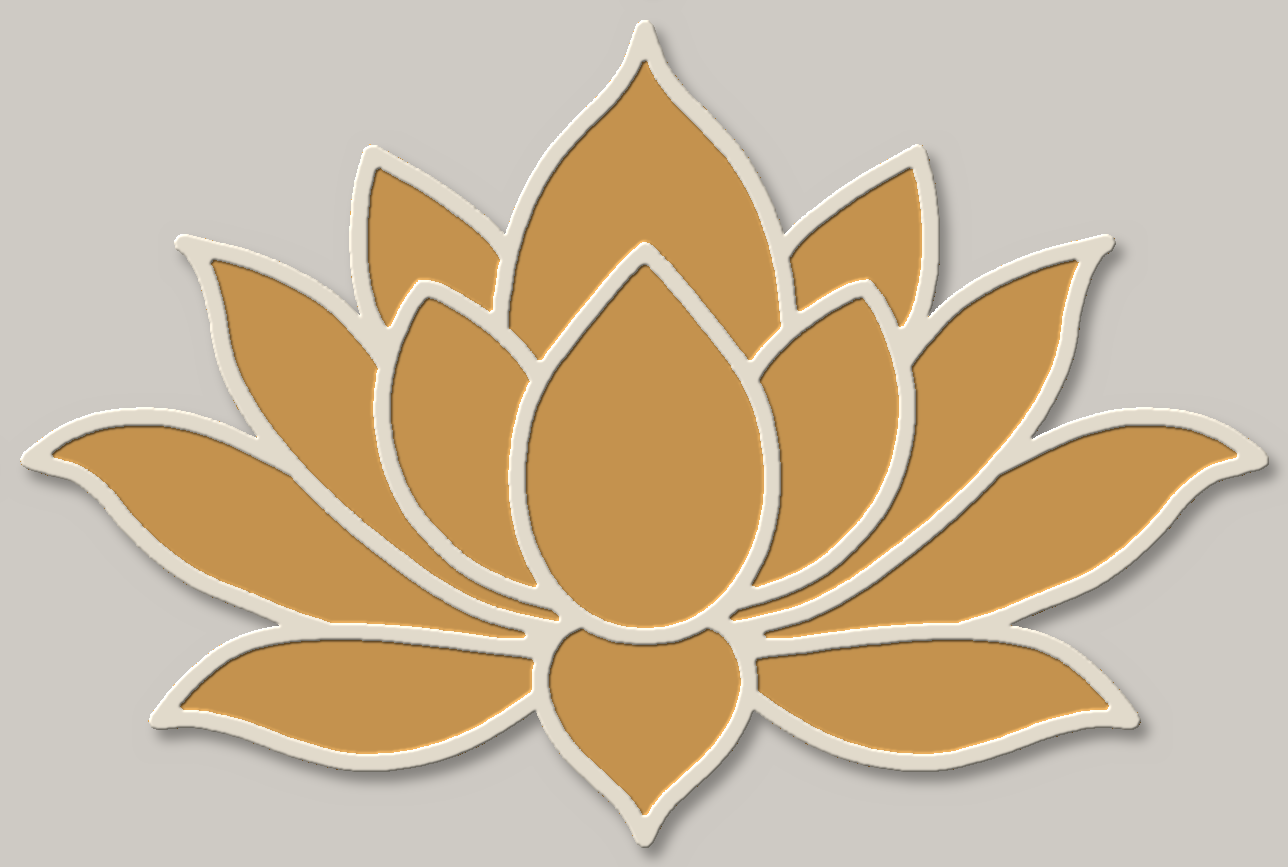
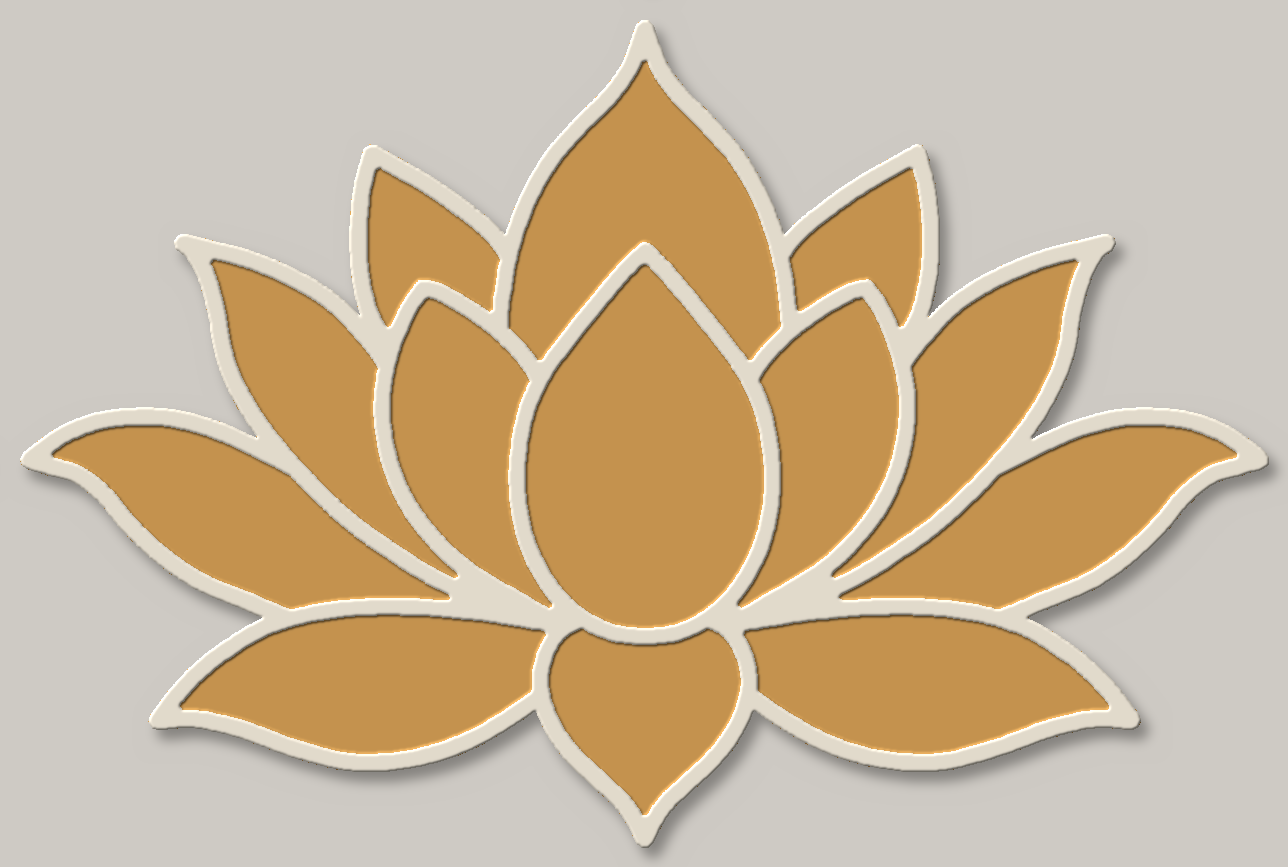
Lotus rangoli board: three side lines curve in and meet earlier (preview only)
Claude-Session: https://claude.ai/code/session_01HQyouszACcJfNx7ugTWrWT

Changed region(s): [[0.559, 0.5917, 0.8385, 0.7785], [0.1553, 0.6228, 0.4348, 0.7785], [0.1242, 0.7785, 0.1553, 0.8097]]

diff --git a/tools/lotus_rangoli_vector.py b/tools/lotus_rangoli_vector.py
@@ -39,17 +39,17 @@ LEFT_PETALS = {
                    (465, 235), (475, 196)],
                   [(475, 196), (500, 210), (535, 230), (572, 256), (612, 292), (650, 360),
                    (670, 450), (650, 560)]),
-    "outer_up": ([(720, 718), (660, 705), (600, 690), (548, 664), (500, 630), (450, 590),
+    "outer_up": ([(722, 716), (688, 702), (650, 692), (600, 676), (548, 655), (500, 626), (450, 590),
                   (398, 540), (355, 488), (328, 442), (315, 405), (309, 368), (298, 328),
                   (284, 302), (272, 292)],
                  [(272, 292), (300, 299), (342, 310), (390, 330), (432, 356), (466, 390),
                   (494, 428), (530, 490), (590, 580), (660, 665), (720, 718)]),
-    "inner": ([(720, 690), (680, 680), (625, 664), (580, 642), (545, 612), (515, 575),
+    "inner": ([(722, 694), (688, 702), (660, 692), (625, 672), (580, 645), (545, 614), (515, 575),
                (495, 530), (486, 481), (488, 440), (498, 400), (514, 363), (530, 340)],
               [(530, 340), (552, 347), (590, 370), (622, 396), (650, 430), (685, 495),
                (712, 580), (724, 650), (720, 690)]),
-    "low_side": ([(705, 742), (650, 730), (600, 724), (540, 716), (470, 710), (410, 710),
-                  (360, 716), (322, 730), (292, 752), (266, 778), (245, 805)],
+    "low_side": ([(705, 742), (700, 720), (688, 704), (650, 698), (600, 690), (540, 684),
+                  (470, 683), (410, 690), (360, 705), (322, 727), (292, 750), (266, 777), (245, 805)],
                  [(245, 805), (285, 803), (335, 814), (390, 834), (450, 849), (510, 847),
                   (565, 832), (612, 808), (660, 775), (705, 742)]),
 }
